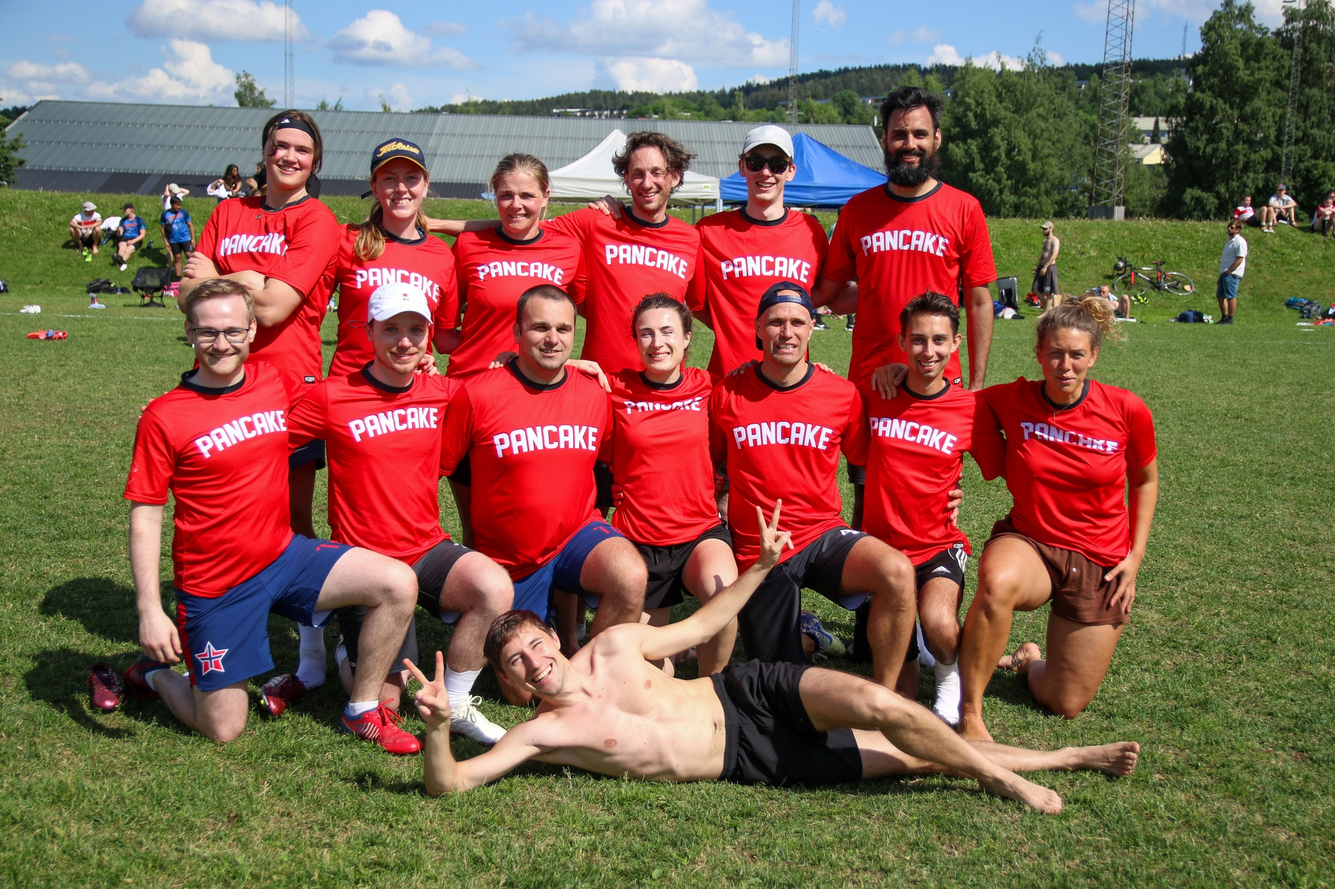
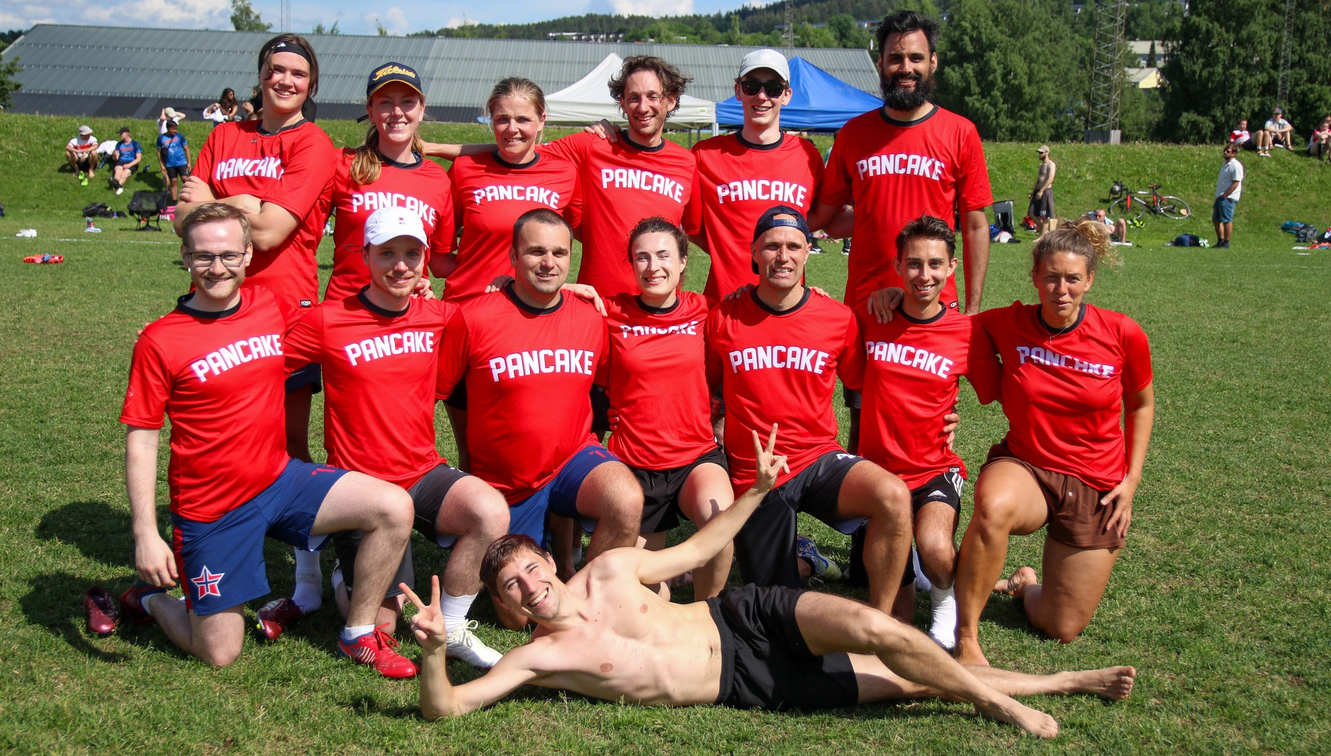
Added short video resource, tweaked Pancake picture

diff --git a/src/Resources.js b/src/Resources.js
@@ -11,8 +11,17 @@ function Resources(props) {
 					<Box sx={{ color: "text.primary" }}>
 						<h1>Resources</h1>
 					</Box>
-					<Box sx={{ color: "text.secondary" }}>
-						<p>This is where I'd put my resources, if I had any... </p>
+					<Box>
+						<iframe
+							width="600"
+							height="400"
+							src="https://www.youtube.com/embed/PrinnxHyWlo?si=_KnIVg0hNRnytCd0"
+							title="YouTube video player"
+							frameborder="0"
+							allow="accelerometer; autoplay; clipboard-write; encrypted-media; gyroscope; picture-in-picture; web-share"
+							referrerpolicy="strict-origin-when-cross-origin"
+							allowfullscreen
+						></iframe>
 					</Box>
 				</Box>
 			</Box>
